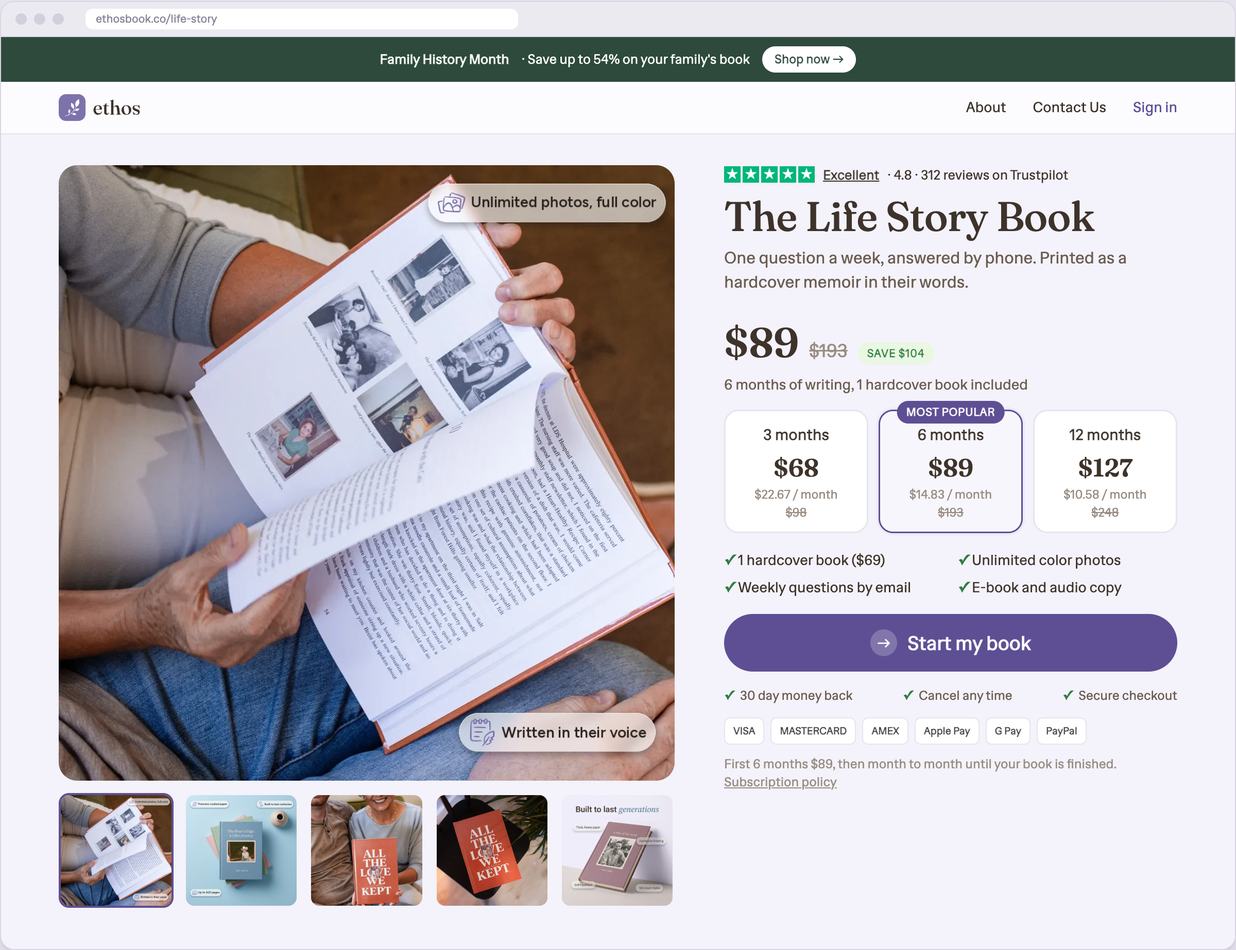
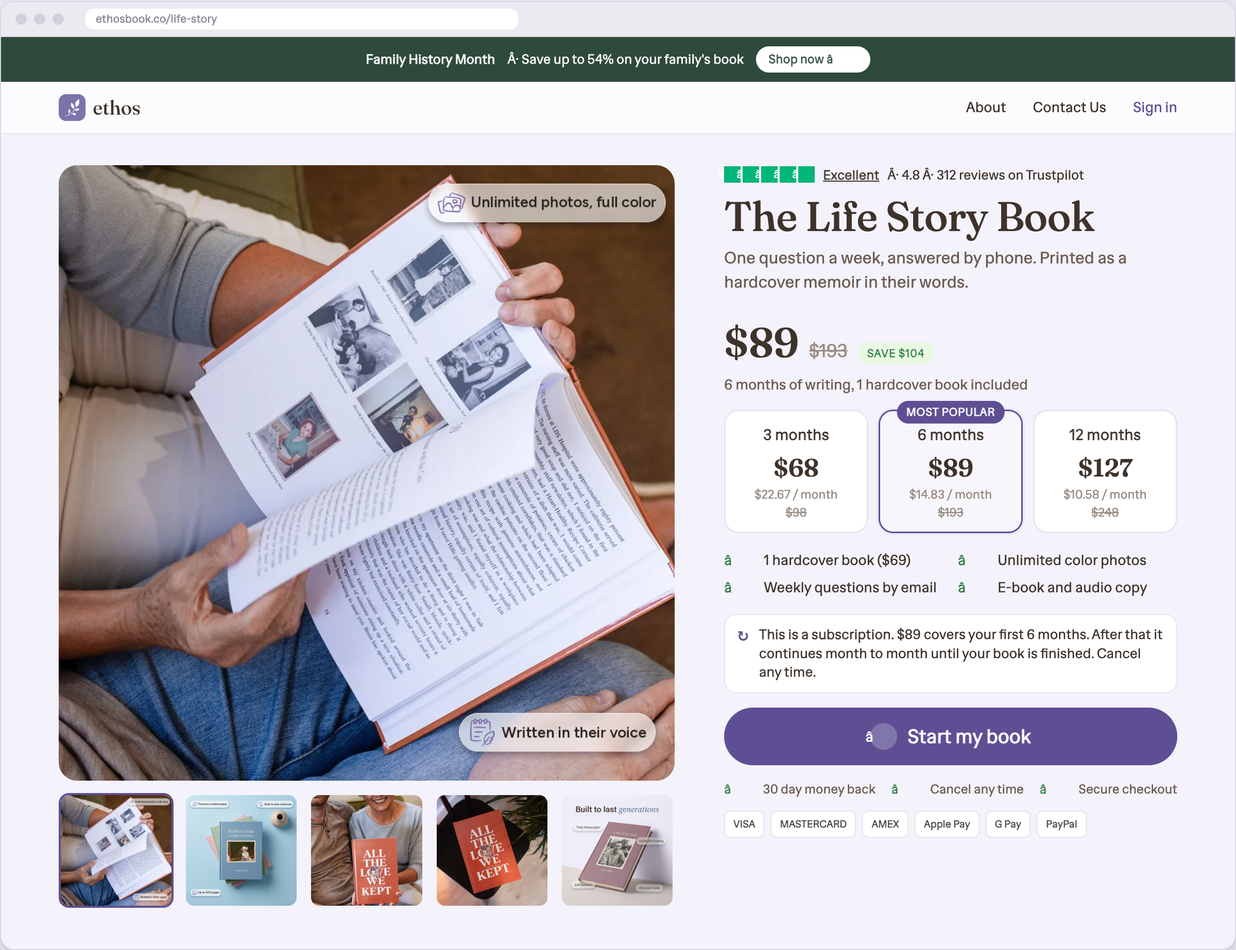
Subscription note on B, C, D

diff --git a/product-page/desktop.html b/product-page/desktop.html
@@ -32,6 +32,7 @@ h1.t{font-family:var(--display);font-weight:500;font-size:40px;line-height:1.05;
 .cta span.ar{width:26px;height:26px;border-radius:50%;background:rgba(255,255,255,.22);display:inline-flex;align-items:center;justify-content:center;font-size:14px}
 .trust{display:flex;justify-content:space-between;gap:10px;margin-top:14px;font-size:12.5px;color:var(--body)}.trust div{display:flex;align-items:center;gap:6px}.trust em{font-style:normal;color:var(--good);font-weight:700}
 .pay{display:flex;gap:6px;margin-top:12px}.pay span{border:1px solid var(--line);background:#fff;border-radius:6px;font-size:10px;font-weight:700;padding:5px 8px;color:#444}
+.subnote{display:flex;gap:10px;align-items:flex-start;background:#fff;border:1px solid var(--line);border-radius:12px;padding:10px 12px;font-size:13.5px;line-height:1.35;color:var(--ink);margin:0 0 14px}.subnote i{font-style:normal;font-size:18px;line-height:1;color:var(--accent)}.subnote b{font-weight:700}
 .fine{font-size:12.5px;color:var(--muted);margin-top:10px;line-height:1.4}
 .tag{display:inline-block;font-size:11px;font-weight:700;letter-spacing:.04em;text-transform:uppercase;border-radius:999px;padding:3px 9px}
 .tag.pop{background:var(--accent);color:#fff}.tag.save{background:var(--good-soft);color:var(--good)}
@@ -43,7 +44,7 @@ h1.t{font-family:var(--display);font-weight:500;font-size:40px;line-height:1.05;
 .tile .m{font-weight:700;color:var(--ink);font-size:15px}.tile .p{font-family:var(--display);font-size:24px;color:var(--ink);font-weight:600;margin:4px 0 0}.tile .pm{font-size:12px;color:var(--muted)}.tile .was{font-size:12px;color:var(--muted);text-decoration:line-through}
 .price{display:flex;align-items:baseline;gap:10px;margin:4px 0 2px}.price .now{font-family:var(--display);font-size:40px;font-weight:600;color:var(--ink)}.price .was{font-size:18px;color:var(--muted);text-decoration:line-through}
 .pricenote{font-size:14px;color:var(--body);margin-bottom:2px}
-.inc{list-style:none;padding:0;margin:6px 0 16px;display:grid;grid-template-columns:1fr 1fr;gap:6px 14px;font-size:14px;color:var(--ink)}.inc li::before{content:"✓ ";color:var(--good);font-weight:700}
+.inc{list-style:none;padding:0;margin:6px 0 16px;display:grid;grid-template-columns:1fr 1fr;gap:6px 14px;font-size:14px;color:var(--ink)}.inc li::before{content:"â ";color:var(--good);font-weight:700}
 /* C rows */
 .rows{display:grid;gap:8px;margin:14px 0 16px}
 .row{display:grid;grid-template-columns:28px 1fr auto;align-items:center;gap:12px;border:1.5px solid var(--line);border-radius:14px;padding:12px 14px;background:#fff}
@@ -73,13 +74,13 @@ h1.t{font-family:var(--display);font-weight:500;font-size:40px;line-height:1.05;
 <!-- B -->
 <div class="cand"><div class="cand-head"><div class="letter">B</div><div><h2>Classic buy box (IM8 / AG1 pattern) <span class="pstyle">Price: one big total, strike anchor, three plan tiles with per month</span></h2><p>One headline. Big image with thumbnails. Price first, plan tiles second, CTA, then the trust triple (money back, cancel any time, secure). Three accent colors at most.</p></div></div>
 <div class="frame"><div class="chrome"><i></i><i></i><i></i><div class="url">ethosbook.co/life-story</div></div><div class="site">
-<div class="banner"><b>Family History Month</b> · Save up to 54% on your family's book <span class="shop">Shop now →</span></div>
+<div class="banner"><b>Family History Month</b> Â· Save up to 54% on your family's book <span class="shop">Shop now â</span></div>
 <div class="nav"><div class="logo"><img src="pdp-img/logo.svg" alt="ethos"></div><div class="links"><span>About</span><span>Contact Us</span><span class="in">Sign in</span></div></div>
 <div class="pdp">
  <div class="gal"><img class="main" src="pdp-img/gallery-open-spread-hands.opt.webp" alt="">
   <div class="thumbs"><img class="on" src="pdp-img/gallery-open-spread-hands.opt.webp"><img src="pdp-img/tile-7-books.jpg"><img src="pdp-img/gallery-mom-holding-book.opt.webp"><img src="pdp-img/love-we-kept-cover.webp"><img src="pdp-img/tile-2-book.jpg"></div></div>
  <div class="buy">
-  <div class="tp"><div class="stars"><i>★</i><i>★</i><i>★</i><i>★</i><i>★</i></div><b>Excellent</b> · 4.8 · 312 reviews on Trustpilot</div>
+  <div class="tp"><div class="stars"><i>â</i><i>â</i><i>â</i><i>â</i><i>â</i></div><b>Excellent</b> Â· 4.8 Â· 312 reviews on Trustpilot</div>
   <h1 class="t">The Life Story Book</h1>
   <p class="sub">One question a week, answered by phone. Printed as a hardcover memoir in their words.</p>
   <div class="price"><span class="now">$89</span><span class="was">$193</span><span class="tag save">Save $104</span></div>
@@ -90,59 +91,60 @@ h1.t{font-family:var(--display);font-weight:500;font-size:40px;line-height:1.05;
    <div class="tile"><div class="m">12 months</div><div class="p">$127</div><div class="pm">$10.58 / month</div><div class="was">$248</div></div>
   </div>
   <ul class="inc"><li>1 hardcover book ($69)</li><li>Unlimited color photos</li><li>Weekly questions by email</li><li>E-book and audio copy</li></ul>
-  <div class="cta"><span class="ar">→</span>Start my book</div>
-  <div class="trust"><div><em>✓</em>30 day money back</div><div><em>✓</em>Cancel any time</div><div><em>✓</em>Secure checkout</div></div>
+  <div class="subnote"><i>↻</i><div><b>This is a subscription.</b> $89 covers your first 6 months. After that it continues month to month until your book is finished. Cancel any time.</div></div>
+  <div class="cta"><span class="ar">â</span>Start my book</div>
+  <div class="trust"><div><em>â</em>30 day money back</div><div><em>â</em>Cancel any time</div><div><em>â</em>Secure checkout</div></div>
   <div class="pay"><span>VISA</span><span>MASTERCARD</span><span>AMEX</span><span>Apple Pay</span><span>G Pay</span><span>PayPal</span></div>
-  <p class="fine">First 6 months $89, then month to month until your book is finished. <u>Subscription policy</u></p>
  </div></div></div></div></div>
 
 <!-- C -->
 <div class="cand"><div class="cand-head"><div class="letter">C</div><div><h2>Per-month framing (subscription first) <span class="pstyle">Price: big "$14.83 a month", total in the row, plan picker as plain radio rows</span></h2><p>Leads with the monthly number, the way IM8 shows "$78 /mo". Each row says what you pay today and per month. Two-image gallery, benefits strip underneath.</p></div></div>
 <div class="frame"><div class="chrome"><i></i><i></i><i></i><div class="url">ethosbook.co/life-story</div></div><div class="site">
-<div class="banner"><b>Family History Month</b> · Save up to 54% on your family's book <span class="shop">Shop now →</span></div>
+<div class="banner"><b>Family History Month</b> Â· Save up to 54% on your family's book <span class="shop">Shop now â</span></div>
 <div class="nav"><div class="logo"><img src="pdp-img/logo.svg" alt="ethos"></div><div class="links"><span>About</span><span>Contact Us</span><span class="in">Sign in</span></div></div>
 <div class="pdp">
  <div><div class="gal2"><img class="big" src="pdp-img/gallery-open-spread-hands.opt.webp"><img src="pdp-img/gallery-mom-holding-book.opt.webp" style="object-position:center 15%"><img src="pdp-img/tile-7-books.jpg"></div>
-  <div class="benefits"><div><i>📖</i>Hardcover included, unlimited color photos</div><div><i>📞</i>Answer by phone, nothing to type</div><div><i>🛡</i>30 day money back guarantee</div></div></div>
+  <div class="benefits"><div><i>ð</i>Hardcover included, unlimited color photos</div><div><i>ð</i>Answer by phone, nothing to type</div><div><i>ð¡ï¸</i>30 day money back guarantee</div></div></div>
  <div class="buy">
-  <div class="tp"><div class="stars"><i>★</i><i>★</i><i>★</i><i>★</i><i>★</i></div><b>Excellent</b> on Trustpilot</div>
+  <div class="tp"><div class="stars"><i>â</i><i>â</i><i>â</i><i>â</i><i>â</i></div><b>Excellent</b> on Trustpilot</div>
   <h1 class="t">The Life Story Book</h1>
   <p class="sub">A professional memoir, written from one spoken answer a week.</p>
   <div class="bigpm"><span class="n">$14.83</span><span class="u">a month</span></div>
   <div class="pricenote">$89 today for 6 months. Book included. <s>$193</s></div>
   <div class="rows">
-   <div class="row"><div class="radio"></div><div class="l"><b>3 months</b><span>A short memoir, 60 to 80 pages</span></div><div class="r"><b>$22.67 /mo</b><span>$68 today · <s>$98</s></span></div></div>
-   <div class="row on"><div class="radio"></div><div class="l"><b>6 months <span class="tag pop" style="margin-left:6px">Most popular</span></b><span>Most families finish here, 120 to 160 pages</span></div><div class="r"><b>$14.83 /mo</b><span>$89 today · <s>$193</s></span></div></div>
-   <div class="row"><div class="radio"></div><div class="l"><b>12 months <span class="tag save" style="margin-left:6px">Best value</span></b><span>A full life, 200 pages and more</span></div><div class="r"><b>$10.58 /mo</b><span>$127 today · <s>$248</s></span></div></div>
+   <div class="row"><div class="radio"></div><div class="l"><b>3 months</b><span>A short memoir, 60 to 80 pages</span></div><div class="r"><b>$22.67 /mo</b><span>$68 today Â· <s>$98</s></span></div></div>
+   <div class="row on"><div class="radio"></div><div class="l"><b>6 months <span class="tag pop" style="margin-left:6px">Most popular</span></b><span>Most families finish here, 120 to 160 pages</span></div><div class="r"><b>$14.83 /mo</b><span>$89 today Â· <s>$193</s></span></div></div>
+   <div class="row"><div class="radio"></div><div class="l"><b>12 months <span class="tag save" style="margin-left:6px">Best value</span></b><span>A full life, 200 pages and more</span></div><div class="r"><b>$10.58 /mo</b><span>$127 today Â· <s>$248</s></span></div></div>
   </div>
-  <div class="cta"><span class="ar">→</span>Start my book, $89</div>
-  <div class="trust"><div><em>✓</em>30 day money back</div><div><em>✓</em>Cancel any time</div><div><em>✓</em>Secure checkout</div></div>
-  <p class="fine">After 6 months it continues month to month until your book is finished. Cancel any time in your account or by email.</p>
+  <div class="subnote"><i>↻</i><div><b>This is a subscription.</b> $89 today covers 6 months. Then it continues month to month until your book is finished. Cancel any time.</div></div>
+  <div class="cta"><span class="ar">â</span>Start my book, $89</div>
+  <div class="trust"><div><em>â</em>30 day money back</div><div><em>â</em>Cancel any time</div><div><em>â</em>Secure checkout</div></div>
  </div></div></div></div></div>
 
 <!-- D -->
 <div class="cand"><div class="cand-head"><div class="letter">D</div><div><h2>Plain words, gift choice on the page <span class="pstyle">Price: one price, strike anchor, plan rows in words; "For myself / A gift" as two big cards, not a slider</span></h2><p>Built for a 70 year old buyer. One price, one button. The who-is-it-for choice is two cards with icons on the product page itself, so the pop-up checkout opens already knowing. No per-month math.</p></div></div>
 <div class="frame"><div class="chrome"><i></i><i></i><i></i><div class="url">ethosbook.co/life-story</div></div><div class="site">
-<div class="banner"><b>Family History Month</b> · Save up to 54% on your family's book <span class="shop">Shop now →</span></div>
+<div class="banner"><b>Family History Month</b> Â· Save up to 54% on your family's book <span class="shop">Shop now â</span></div>
 <div class="nav"><div class="logo"><img src="pdp-img/logo.svg" alt="ethos"></div><div class="links"><span>About</span><span>Contact Us</span><span class="in">Sign in</span></div></div>
 <div class="pdp">
  <div class="gal"><img class="main" src="pdp-img/gallery-mom-holding-book.opt.webp" alt=""><div class="thumbs"><img class="on" src="pdp-img/gallery-mom-holding-book.opt.webp"><img src="pdp-img/gallery-open-spread-hands.opt.webp"><img src="pdp-img/love-we-kept-cover.webp"><img src="pdp-img/tile-2-book.jpg"><img src="pdp-img/tile-7-books.jpg"></div>
-  <div class="guar"><span class="sh">🛡</span><div><b>30 day money back guarantee</b>No questions asked. Fewer than 1% of families ask for their money back.</div></div></div>
+  <div class="guar"><span class="sh">ð¡ï¸</span><div><b>30 day money back guarantee</b>No questions asked. Fewer than 1% of families ask for their money back.</div></div></div>
  <div class="buy">
   <h1 class="t" style="margin-top:0">The Life Story Book</h1>
-  <div class="tp" style="margin-bottom:14px"><div class="stars"><i>★</i><i>★</i><i>★</i><i>★</i><i>★</i></div><b>Excellent</b> · Loved by 2,400 American families</div>
+  <div class="tp" style="margin-bottom:14px"><div class="stars"><i>â</i><i>â</i><i>â</i><i>â</i><i>â</i></div><b>Excellent</b> Â· Loved by 2,400 American families</div>
   <div class="price"><span class="now">$89</span><span class="was">$193</span><span class="tag save">You save $104</span></div>
   <div class="pricenote" style="margin-bottom:16px">Hardcover book, 6 months of weekly questions, unlimited photos in color.</div>
   <p class="lbl">Who is the book about?</p>
-  <div class="who"><div class="on"><div class="ic">🙋</div><div><b>Myself</b><span>I will answer the questions</span></div></div><div><div class="ic">🎁</div><div><b>A gift</b><span>Mom, Dad, a grandparent</span></div></div></div>
+  <div class="who"><div class="on"><div class="ic">ð</div><div><b>Myself</b><span>I will answer the questions</span></div></div><div><div class="ic">ð</div><div><b>A gift</b><span>Mom, Dad, a grandparent</span></div></div></div>
   <p class="lbl">How long do they write?</p>
   <div class="rows" style="margin-top:0">
    <div class="row"><div class="radio"></div><div class="l"><b>3 months</b><span>A short book</span></div><div class="r"><b>$68</b><s>$98</s></div></div>
    <div class="row on"><div class="radio"></div><div class="l"><b>6 months</b><span>Most families choose this</span></div><div class="r"><b>$89</b><s>$193</s></div></div>
    <div class="row"><div class="radio"></div><div class="l"><b>12 months</b><span>A full life story</span></div><div class="r"><b>$127</b><s>$248</s></div></div>
   </div>
-  <div class="cta"><span class="ar">→</span>Start my book</div>
-  <div class="trust"><div><em>✓</em>30 day money back</div><div><em>✓</em>Cancel any time</div><div><em>✓</em>Secure checkout</div></div>
+  <div class="subnote"><i>↻</i><div><b>This is a subscription.</b> $89 covers the first 6 months. After that it continues month to month until the book is finished. Cancel any time.</div></div>
+  <div class="cta"><span class="ar">â</span>Start my book</div>
+  <div class="trust"><div><em>â</em>30 day money back</div><div><em>â</em>Cancel any time</div><div><em>â</em>Secure checkout</div></div>
   <div class="pay"><span>VISA</span><span>MASTERCARD</span><span>AMEX</span><span>Apple Pay</span><span>G Pay</span><span>PayPal</span></div>
  </div></div></div></div></div>
 </div></body></html>

diff --git a/product-page/mobile.html b/product-page/mobile.html
@@ -24,6 +24,7 @@ h1.t{font-family:var(--display);font-weight:500;font-size:30px;line-height:1.08;
 .cta .ar{width:26px;height:26px;border-radius:50%;background:rgba(255,255,255,.22);display:inline-flex;align-items:center;justify-content:center;font-size:14px}
 .trust{display:flex;justify-content:space-between;gap:6px;margin-top:12px;font-size:12px;color:var(--body)}.trust div{display:flex;align-items:center;gap:4px}.trust em{font-style:normal;color:var(--good);font-weight:700}
 .pay{display:flex;gap:5px;margin-top:10px;flex-wrap:wrap}.pay span{border:1px solid var(--line);background:#fff;border-radius:6px;font-size:10px;font-weight:700;padding:4px 7px;color:#444}
+.subnote{display:flex;gap:10px;align-items:flex-start;background:#fff;border:1px solid var(--line);border-radius:12px;padding:10px 12px;font-size:13.5px;line-height:1.35;color:var(--ink);margin:0 0 14px}.subnote i{font-style:normal;font-size:18px;line-height:1;color:var(--accent)}.subnote b{font-weight:700}
 .fine{font-size:12px;color:var(--muted);margin-top:10px;line-height:1.4}
 .tag{display:inline-block;font-size:10.5px;font-weight:700;letter-spacing:.04em;text-transform:uppercase;border-radius:999px;padding:3px 8px}.tag.pop{background:var(--accent);color:#fff}.tag.save{background:var(--good-soft);color:var(--good)}
 .price{display:flex;align-items:baseline;gap:8px;margin:2px 0 2px;flex-wrap:wrap}.price .now{font-family:var(--display);font-size:38px;font-weight:600;color:var(--ink)}.price .was{font-size:17px;color:var(--muted);text-decoration:line-through}
@@ -32,7 +33,7 @@ h1.t{font-family:var(--display);font-weight:500;font-size:30px;line-height:1.08;
 .tile{border:1.5px solid var(--line);border-radius:14px;padding:12px 6px 10px;background:#fff;text-align:center;position:relative}.tile.on{border-color:var(--accent);background:#F8F6FD;box-shadow:0 0 0 2px var(--accent-soft)}
 .tile .tag{position:absolute;top:-10px;left:50%;transform:translateX(-50%);white-space:nowrap}
 .tile .m{font-weight:700;color:var(--ink);font-size:14px}.tile .p{font-family:var(--display);font-size:24px;color:var(--ink);font-weight:600;margin:3px 0 0}.tile .pm{font-size:11px;color:var(--muted)}.tile .was{font-size:11px;color:var(--muted);text-decoration:line-through}
-.inc{list-style:none;padding:0;margin:0 0 14px;display:grid;gap:5px;font-size:14px;color:var(--ink)}.inc li::before{content:"✓ ";color:var(--good);font-weight:700}
+.inc{list-style:none;padding:0;margin:0 0 14px;display:grid;gap:5px;font-size:14px;color:var(--ink)}.inc li::before{content:"â ";color:var(--good);font-weight:700}
 .rows{display:grid;gap:8px;margin:12px 0 14px}
 .row{display:grid;grid-template-columns:24px 1fr auto;align-items:center;gap:10px;border:1.5px solid var(--line);border-radius:14px;padding:12px 12px;background:#fff}.row.on{border-color:var(--accent);background:#F8F6FD;box-shadow:0 0 0 2px var(--accent-soft)}
 .radio{width:22px;height:22px;border-radius:50%;border:2px solid #C9C3D6;background:#fff}.row.on .radio{border:7px solid var(--accent)}
@@ -55,12 +56,12 @@ h1.t{font-family:var(--display);font-weight:500;font-size:30px;line-height:1.08;
 
 <div class="cell"><div class="head"><div class="letter">B</div><h2>Classic buy box</h2></div>
 <div class="phone"><div class="site">
-<div class="banner"><b>Family History Month</b> · Save up to 54% <span class="shop">Shop</span></div>
+<div class="banner"><b>Family History Month</b> Â· Save up to 54% <span class="shop">Shop</span></div>
 <div class="nav"><div class="ham"></div><img src="pdp-img/logo.svg" alt="ethos"><div style="width:22px"></div></div>
 <div class="pad">
  <img class="main" src="pdp-img/gallery-open-spread-hands.opt.webp" alt="">
  <div class="thumbs"><img class="on" src="pdp-img/gallery-open-spread-hands.opt.webp"><img src="pdp-img/tile-7-books.jpg"><img src="pdp-img/gallery-mom-holding-book.opt.webp"><img src="pdp-img/love-we-kept-cover.webp"><img src="pdp-img/tile-2-book.jpg"></div>
- <div class="tp"><div class="stars"><i>★</i><i>★</i><i>★</i><i>★</i><i>★</i></div><b>Excellent</b> · 312 reviews</div>
+ <div class="tp"><div class="stars"><i>â</i><i>â</i><i>â</i><i>â</i><i>â</i></div><b>Excellent</b> Â· 312 reviews</div>
  <h1 class="t">The Life Story Book</h1>
  <p class="sub">One question a week, answered by phone. Printed as a hardcover memoir in their words.</p>
  <div class="price"><span class="now">$89</span><span class="was">$193</span><span class="tag save">Save $104</span></div>
@@ -71,56 +72,57 @@ h1.t{font-family:var(--display);font-weight:500;font-size:30px;line-height:1.08;
   <div class="tile"><div class="m">12 months</div><div class="p">$127</div><div class="pm">$10.58 / mo</div><div class="was">$248</div></div>
  </div>
  <ul class="inc"><li>1 hardcover book ($69)</li><li>Unlimited color photos</li><li>Weekly questions by email</li><li>E-book and audio copy</li></ul>
- <div class="cta"><span class="ar">→</span>Start my book</div>
- <div class="trust"><div><em>✓</em>30 day money back</div><div><em>✓</em>Cancel any time</div><div><em>✓</em>Secure</div></div>
+ <div class="subnote"><i>↻</i><div><b>This is a subscription.</b> $89 covers your first 6 months. After that it continues month to month until your book is finished. Cancel any time.</div></div>
+  <div class="cta"><span class="ar">â</span>Start my book</div>
+ <div class="trust"><div><em>â</em>30 day money back</div><div><em>â</em>Cancel any time</div><div><em>â</em>Secure</div></div>
  <div class="pay"><span>VISA</span><span>MASTERCARD</span><span>AMEX</span><span>Apple Pay</span><span>G Pay</span><span>PayPal</span></div>
- <p class="fine">First 6 months $89, then month to month until your book is finished. <u>Subscription policy</u></p>
 </div></div></div></div>
 
 <div class="cell"><div class="head"><div class="letter">C</div><h2>Per month</h2></div>
 <div class="phone"><div class="site">
-<div class="banner"><b>Family History Month</b> · Save up to 54% <span class="shop">Shop</span></div>
+<div class="banner"><b>Family History Month</b> Â· Save up to 54% <span class="shop">Shop</span></div>
 <div class="nav"><div class="ham"></div><img src="pdp-img/logo.svg" alt="ethos"><div style="width:22px"></div></div>
 <div class="pad">
  <div class="gal2"><img class="big" src="pdp-img/gallery-open-spread-hands.opt.webp"><img src="pdp-img/gallery-mom-holding-book.opt.webp" style="object-position:center 15%"><img src="pdp-img/tile-7-books.jpg"></div>
- <div class="tp"><div class="stars"><i>★</i><i>★</i><i>★</i><i>★</i><i>★</i></div><b>Excellent</b> on Trustpilot</div>
+ <div class="tp"><div class="stars"><i>â</i><i>â</i><i>â</i><i>â</i><i>â</i></div><b>Excellent</b> on Trustpilot</div>
  <h1 class="t">The Life Story Book</h1>
  <p class="sub">A professional memoir, written from one spoken answer a week.</p>
  <div class="bigpm"><span class="n">$14.83</span><span class="u">a month</span></div>
  <div class="pricenote">$89 today for 6 months. Book included. <s>$193</s></div>
  <div class="rows">
-  <div class="row"><div class="radio"></div><div class="l"><b>3 months</b><span>A short memoir</span></div><div class="r"><b>$22.67 /mo</b><span>$68 today · <s>$98</s></span></div></div>
-  <div class="row on"><div class="radio"></div><div class="l"><b>6 months</b><span>Most families finish here</span></div><div class="r"><b>$14.83 /mo</b><span>$89 today · <s>$193</s></span></div></div>
-  <div class="row"><div class="radio"></div><div class="l"><b>12 months</b><span>A full life</span></div><div class="r"><b>$10.58 /mo</b><span>$127 today · <s>$248</s></span></div></div>
+  <div class="row"><div class="radio"></div><div class="l"><b>3 months</b><span>A short memoir</span></div><div class="r"><b>$22.67 /mo</b><span>$68 today Â· <s>$98</s></span></div></div>
+  <div class="row on"><div class="radio"></div><div class="l"><b>6 months</b><span>Most families finish here</span></div><div class="r"><b>$14.83 /mo</b><span>$89 today Â· <s>$193</s></span></div></div>
+  <div class="row"><div class="radio"></div><div class="l"><b>12 months</b><span>A full life</span></div><div class="r"><b>$10.58 /mo</b><span>$127 today Â· <s>$248</s></span></div></div>
  </div>
- <div class="cta"><span class="ar">→</span>Start my book, $89</div>
- <div class="trust"><div><em>✓</em>30 day money back</div><div><em>✓</em>Cancel any time</div><div><em>✓</em>Secure</div></div>
- <div class="benefits"><div><i>📖</i>Hardcover included, unlimited color photos</div><div><i>📞</i>Answer by phone, nothing to type</div></div>
- <p class="fine">After 6 months it continues month to month until your book is finished. Cancel any time.</p>
+ <div class="subnote"><i>↻</i><div><b>This is a subscription.</b> $89 today covers 6 months. Then it continues month to month until your book is finished. Cancel any time.</div></div>
+  <div class="cta"><span class="ar">â</span>Start my book, $89</div>
+ <div class="trust"><div><em>â</em>30 day money back</div><div><em>â</em>Cancel any time</div><div><em>â</em>Secure</div></div>
+ <div class="benefits"><div><i>ð</i>Hardcover included, unlimited color photos</div><div><i>ð</i>Answer by phone, nothing to type</div></div>
 </div></div></div></div>
 
 <div class="cell"><div class="head"><div class="letter">D</div><h2>Plain words, gift on page</h2></div>
 <div class="phone"><div class="site">
-<div class="banner"><b>Family History Month</b> · Save up to 54% <span class="shop">Shop</span></div>
+<div class="banner"><b>Family History Month</b> Â· Save up to 54% <span class="shop">Shop</span></div>
 <div class="nav"><div class="ham"></div><img src="pdp-img/logo.svg" alt="ethos"><div style="width:22px"></div></div>
 <div class="pad">
  <img class="main" src="pdp-img/gallery-mom-holding-book.opt.webp" alt="">
  <div class="thumbs"><img class="on" src="pdp-img/gallery-mom-holding-book.opt.webp"><img src="pdp-img/gallery-open-spread-hands.opt.webp"><img src="pdp-img/love-we-kept-cover.webp"><img src="pdp-img/tile-2-book.jpg"><img src="pdp-img/tile-7-books.jpg"></div>
  <h1 class="t" style="margin-top:14px">The Life Story Book</h1>
- <div class="tp" style="margin:0 0 12px"><div class="stars"><i>★</i><i>★</i><i>★</i><i>★</i><i>★</i></div><b>Excellent</b> · 2,400 families</div>
+ <div class="tp" style="margin:0 0 12px"><div class="stars"><i>â</i><i>â</i><i>â</i><i>â</i><i>â</i></div><b>Excellent</b> Â· 2,400 families</div>
  <div class="price"><span class="now">$89</span><span class="was">$193</span><span class="tag save">You save $104</span></div>
  <div class="pricenote" style="margin-bottom:14px">Hardcover book, 6 months of weekly questions, unlimited photos in color.</div>
  <p class="lbl">Who is the book about?</p>
- <div class="who"><div class="on"><div class="ic">🙋</div><div><b>Myself</b><span>I answer the questions</span></div></div><div><div class="ic">🎁</div><div><b>A gift</b><span>Mom, Dad, a grandparent</span></div></div></div>
+ <div class="who"><div class="on"><div class="ic">ð</div><div><b>Myself</b><span>I answer the questions</span></div></div><div><div class="ic">ð</div><div><b>A gift</b><span>Mom, Dad, a grandparent</span></div></div></div>
  <p class="lbl">How long do they write?</p>
  <div class="rows" style="margin-top:0">
   <div class="row"><div class="radio"></div><div class="l"><b>3 months</b><span>A short book</span></div><div class="r"><b>$68</b><s>$98</s></div></div>
   <div class="row on"><div class="radio"></div><div class="l"><b>6 months</b><span>Most families choose this</span></div><div class="r"><b>$89</b><s>$193</s></div></div>
   <div class="row"><div class="radio"></div><div class="l"><b>12 months</b><span>A full life story</span></div><div class="r"><b>$127</b><s>$248</s></div></div>
  </div>
- <div class="cta"><span class="ar">→</span>Start my book</div>
- <div class="trust"><div><em>✓</em>30 day money back</div><div><em>✓</em>Cancel any time</div><div><em>✓</em>Secure</div></div>
- <div class="guar"><span class="sh">🛡</span><div><b>30 day money back guarantee</b>No questions asked.</div></div>
+ <div class="subnote"><i>↻</i><div><b>This is a subscription.</b> $89 covers the first 6 months. After that it continues month to month until the book is finished. Cancel any time.</div></div>
+  <div class="cta"><span class="ar">â</span>Start my book</div>
+ <div class="trust"><div><em>â</em>30 day money back</div><div><em>â</em>Cancel any time</div><div><em>â</em>Secure</div></div>
+ <div class="guar"><span class="sh">ð¡ï¸</span><div><b>30 day money back guarantee</b>No questions asked.</div></div>
 </div></div></div></div>
 
 </div></div></body></html>
